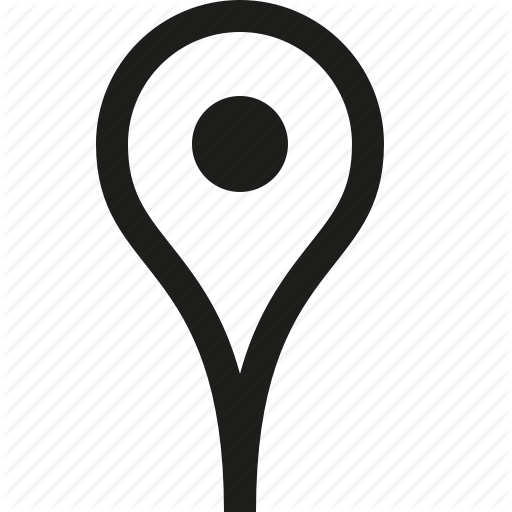
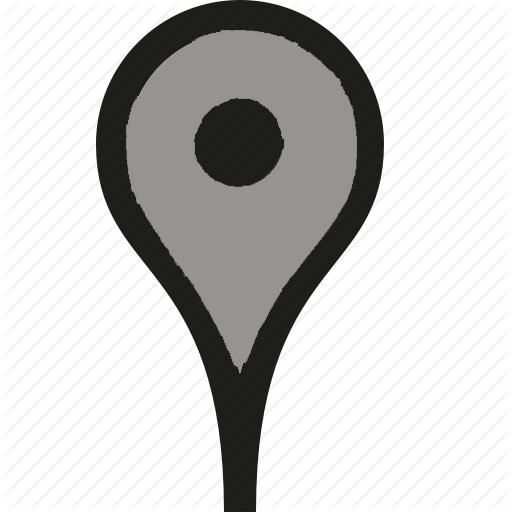
Adjusts Markers & Supresses Nav Markers

Changed region(s): [[0.2188, 0.0312, 0.7188, 0.7188]]

diff --git a/YYCWalks/public/index.html b/YYCWalks/public/index.html
@@ -12,7 +12,7 @@
 
         var icons = {
             future: "/images/future_small.png",
-            present: "/images/present_small.png",
+            present: "/images/present_small2.png",
             past: "/images/past_small.png"
         }
 
@@ -51,7 +51,9 @@
         
         function getDirections(destArray) {
             var directionsService = new google.maps.DirectionsService;
-            var directionsDisplay = new google.maps.DirectionsRenderer;
+            var directionsDisplay = new google.maps.DirectionsRenderer ({
+                                                                            suppressMarkers: true
+                                                                        });
             directionsDisplay.setMap(map);
             
             //try and use if click new points?
@@ -79,7 +81,8 @@
                 origin: destArray[0].latLng,
                 destination: destArray[destArray.length - 1].latLng,
                 travelMode: google.maps.TravelMode.WALKING,
-                waypoints: waypts
+                waypoints: waypts,
+                optimizeWaypoints: true
             }, function (response, status) {
                 if (status === google.maps.DirectionsStatus.OK) {
                     directionsDisplay.setDirections(response);
@@ -103,12 +106,14 @@
                 var item = destinations[i];
                 
                 var icon = icons.future;
+                //debugger;
                 if(i === currentLocation ){
                     icon = icons.present;
                 }
-                else{
-                    icon - icons.past;
+                else if (i < currentLocation ){
+                    icon = icons.past;
                 }
+                
                 new google.maps.Marker({
                     position: item.latLng,
                     map: map,
@@ -142,12 +147,18 @@
         }
         
         function nextDestination(){
-            currentLocation++;
+            if(currentLocation < destinations.length - 1)
+                currentLocation++;
+            
+            initialize();
             updateDestinationPanel();
         }
         
         function previousDestination(){
-            currentLocation--;
+            if(currentLocation > 0)
+                currentLocation--;
+            
+            initialize();
             updateDestinationPanel();
         }
         
@@ -167,7 +178,7 @@
     <table style="width:100%; height: 100%;text-align: center">
         <tr>
             <td width="30%" onclick="showMap()">
-                <img src="/images/map.png" style="height:80px;" /> 
+                <img src="/images/map.png" style="height:80px;" />
             </td>
             <td>
                 <table style="width:100%;">
@@ -177,18 +188,18 @@
                         </td>
                     </tr>
                     <tr>
-                        <td style="text-align: center;">
+                        <td style="text-align: center;" onclick="showFullPath()">
                             <h4>Show Full Path</h4>
                         </td>
-                        <td style="text-align: center;">
+                        <td style="text-align: center;" onclick="showCurrentPath()">
                             <h4>This Current Path</h4>
                         </td>
                     </tr>
 
                 </table>
             </td>
-            <td width="30%">
-                <h2 onclick="showDestination()">Destination</h2>
+            <td width="30%" onclick="showDestination()">
+                <h2>Destination</h2>
             </td>
 
         </tr>
@@ -205,14 +216,14 @@
             <td colspan="3">
                 <table style="width: 100%; text-align: center">
                     <tr>
-                        <td width="30%" style="text-align: center">
-                            <h2 onclick="previousDestination()">Prev Destination</h2>
+                        <td width="30%" style="text-align: center" onclick="previousDestination()">
+                            <h2>Prev Destination</h2>
                         </td>
-                        <td width="40%">
-                            <h2 onclick="showDestination()">Arrived at Destination</h2>
+                        <td width="40%" onclick="showDestination()">
+                            <h2>Arrived at Destination</h2>
                         </td>
-                        <td width="30%">
-                            <h2 onclick="nextDestination()">Next Destination</h2>
+                        <td width="30%" onclick="nextDestination()">
+                            <h2>Next Destination</h2>
                         </td>
                     </tr>
                 </table>
